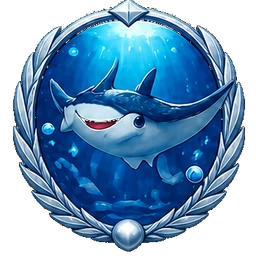
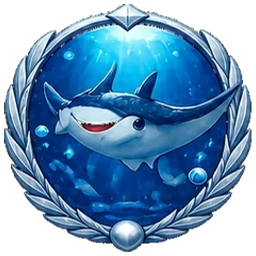
v20260709_1029: VIP LV1~LV5 徽章圖統一為相同大小的正圓(原本佔比89.5%~99.2%且略呈橢圓、未置中)——所有顯示位置一次生效

diff --git a/src/lib/version.ts b/src/lib/version.ts
@@ -1,4 +1,4 @@
 // 規則: YYYYMMDD_NN, NN 全域累計不歸零 (參考 ~/.claude/CLAUDE.md)
 // 無後綴字母；歷史 v740M~v770M 的 "M" 已確認無意義，自 v771 起不再使用。
 // 每次 push GitHub / 部署 Zeabur 前必須 bump
-export const APP_VERSION = "20260709_1028";
+export const APP_VERSION = "20260709_1029";
